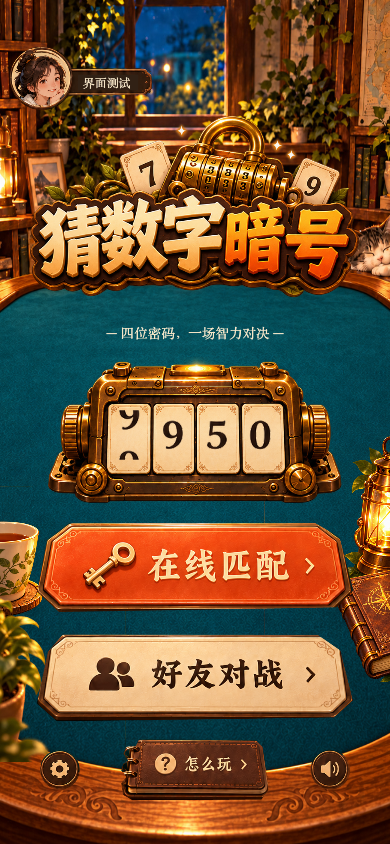
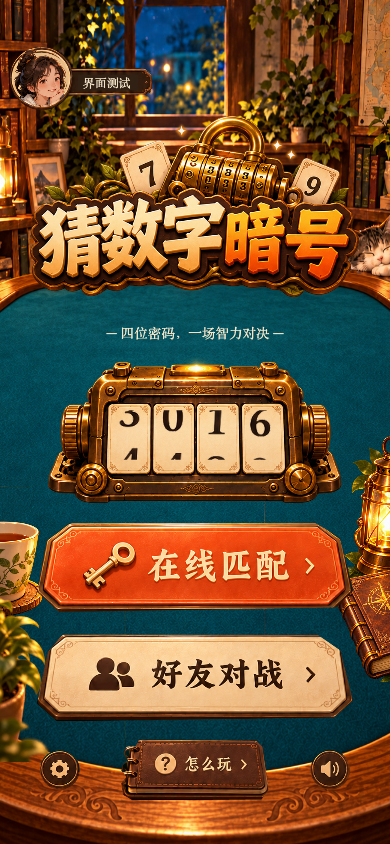
refine(ui): stagger lobby reel stops with landing bounce and cues

diff --git a/tests/lobby-shuffle.test.ts b/tests/lobby-shuffle.test.ts
@@ -5,14 +5,24 @@ test('starts immediately, stops all reels then holds for five seconds without re
  let n=0;const s=new LobbyShuffle(()=>((n++%10)+.1)/10);s.show(true);
  assert.equal(s.elapsed,0);s.advance(.1,true);assert.ok(s.pose(0).offset>0);
  s.show(true);assert.equal(s.elapsed,.1);
- for(let i=0;i<13;i++)s.advance(.1,true);
+ for(let i=0;i<18;i++)s.advance(.1,true);
  const digits=[0,1,2,3].map(i=>s.pose(i).digit);assert.ok([0,1,2,3].every(i=>!s.pose(i).active));
  for(let i=0;i<48;i++)s.advance(.1,true);
- assert.deepEqual([0,1,2,3].map(i=>s.pose(i).digit),digits);assert.ok(s.elapsed>=6.1);
- s.advance(.1,true);assert.equal(s.elapsed,0);assert.equal(s.pose(0).active,true);
+ assert.deepEqual([0,1,2,3].map(i=>s.pose(i).digit),digits);assert.ok(s.elapsed>=6.6);
+ s.advance(.1,true);s.advance(.1,true);assert.equal(s.elapsed,0);assert.equal(s.pose(0).active,true);
 });
 test('hidden view pauses; reentry starts immediately; disabled motion settles',()=>{
  const s=new LobbyShuffle(()=>.7);s.show(true);s.advance(.1,true);s.show(false);s.advance(.1,true);assert.equal(s.elapsed,.1);
  s.show(true);assert.equal(s.elapsed,0);s.advance(.1,false);assert.equal(s.pose(3).active,false);assert.equal(s.pose(3).digit,7);
  for(let i=0;i<100;i++)s.advance(.1,false);assert.equal(s.elapsed,s.rollDuration);
+});
+
+test('reels stop left to right, emit one click each and bounce only at landing',()=>{
+ const s=new LobbyShuffle(()=>.5);s.show(true);const stops:number[]=[];const times:number[]=[];
+ for(let i=0;i<110;i++){const landed=s.advance(.02,true);stops.push(...landed);for(const _ of landed)times.push(s.elapsed);s.show(true);}
+ assert.deepEqual(stops,[0,1,2,3]);
+ for(let i=1;i<4;i++)assert.ok(Math.abs(times[i]-times[i-1]-.24)<.025);
+ s.elapsed=.96;assert.ok(Math.abs(s.pose(0).bounce)>0);assert.equal(s.pose(1).bounce,0);
+ s.elapsed=s.rollDuration;for(let i=0;i<4;i++){assert.equal(s.pose(i).active,false);assert.ok(Math.abs(s.pose(i).bounce)<1e-8);}
+ assert.deepEqual(s.advance(.02,false),[]);s.show(false);assert.deepEqual(s.advance(.02,true),[]);
 });

diff --git a/assets/scripts/shared/lobby-shuffle.ts b/assets/scripts/shared/lobby-shuffle.ts
@@ -2,7 +2,9 @@
 export class LobbyShuffle {
   visible = false;
   elapsed = 0;
-  readonly rollDuration = 1.25;
+  readonly stopInterval = .24;
+  readonly settleDuration = .18;
+  readonly rollDuration = .9 + 3 * this.stopInterval + this.settleDuration;
   readonly holdDuration = 5;
   private reels: number[][] = [];
   constructor(private random: () => number = Math.random) { this.roll(); }
@@ -15,15 +17,21 @@ export class LobbyShuffle {
     this.visible = visible;
   }
   advance(dt: number, motion: boolean) {
-    if (!this.visible) return;
-    if (!motion) { this.elapsed = this.rollDuration; return; }
+    if (!this.visible) return [];
+    if (!motion) { this.elapsed = this.rollDuration; return []; }
+    const previous = this.elapsed;
     this.elapsed += Math.min(.1, Math.max(0, Number.isFinite(dt) ? dt : 0));
+    const stopped = [0,1,2,3].filter(i=>previous < this.stopAt(i) && this.elapsed >= this.stopAt(i));
     if (this.elapsed >= this.rollDuration + this.holdDuration) this.roll();
+    return stopped;
   }
+  private stopAt(index: number) { return .9 + index * this.stopInterval; }
   pose(index: number) {
-    const t=Math.max(0,Math.min(1,(this.elapsed-index*.08)/(1.01)));
+    const t=Math.max(0,Math.min(1,this.elapsed/this.stopAt(index)));
+    const settle=Math.max(0,Math.min(1,(this.elapsed-this.stopAt(index))/this.settleDuration));
+    const bounce=t<1?0:Math.sin(settle*Math.PI*2)*(1-settle);
     // Decelerate smoothly into the final digit; every crossing swaps one source numeral.
     const position=12*(1-(1-t)**2),step=Math.min(12,Math.floor(position));
-    return {digit:this.reels[index][step],next:this.reels[index][Math.min(12,step+1)],offset:position-step,active:t<1};
+    return {digit:this.reels[index][step],next:this.reels[index][Math.min(12,step+1)],offset:position-step,bounce,active:t<1};
   }
 }

diff --git a/assets/scripts/GameApp.ts b/assets/scripts/GameApp.ts
@@ -542,7 +542,9 @@ export class GameApp extends Component {
       if(!reel.current.isValid)return;
       const pose=this.lobbyShuffle.pose(i);
       reel.current.spriteFrame=this.lobbyDigitFrames[pose.digit];reel.next.spriteFrame=this.lobbyDigitFrames[pose.next];
-      reel.current.node.setPosition(0,pose.offset*reel.height);
+      reel.current.node.setPosition(0,pose.offset*reel.height-pose.bounce*reel.height*.08);
+      reel.current.node.setScale(1+pose.bounce*.035,1-pose.bounce*.07,1);
+      reel.next.node.active=pose.active;
       reel.next.node.setPosition(0,(pose.offset-1)*reel.height);
     });
   }
@@ -1268,7 +1270,9 @@ export class GameApp extends Component {
     if(this.roundNew?.isValid)this.roundNew.setPosition(0,pose.newY);
   }
   update(dt: number) {
-    this.lobbyShuffle.advance(dt,read('motion','1')==='1');this.applyLobbyShuffle();
+    const reelStops=this.lobbyShuffle.advance(dt,read('motion','1')==='1');
+    if(reelStops.length && !this.overlay && this.net.online)this.audio.play('tap');
+    this.applyLobbyShuffle();
     this.roundRoll.advance(dt,read('motion','1')==='1');this.applyRoundRoll();
     this.scenery?.update(dt);
     this.modals?.update(dt, read('motion', '1') === '1');

diff --git a/docs/verification/lobby-shuffle/README.md b/docs/verification/lobby-shuffle/README.md
@@ -1,8 +1,10 @@
 # 首页数字洗牌与静态沙漏
 
 - 数字：从现有口令键盘 key-0…key-9 提取原字形，生成 640×80 透明图集；未新增字体或用文字近似绘制。来源和图层说明见 `docs/design/lobby-shuffle/manifest.json`；深浅底图用于检查轮廓。原有资源 UUID 未变。
-- 首页：资源就绪且首页可见后立即播放首次滚动；四位错峰减速，最后一位在 1.25 秒落定；随后完整停留 5 秒再循环。进入新一轮随机数可重复。状态独立于 UI 节点，重绘不重置；离开页面停止计时，返回立即重新播放。关闭动效时静态显示。
+- 首页：资源就绪且首页可见后立即播放首次滚动；四位错峰减速，每位停止间隔 0.24 秒（0.90、1.14、1.38、1.62 秒），停止时轻微回弹 0.18 秒并触发一次 tap 音效；随后完整停留 5 秒再循环。进入新一轮随机数可重复。状态独立于 UI 节点，重绘不重置；离开页面停止计时，返回立即重新播放。关闭动效时静态显示。
 - 沙漏：固定使用已有图集的正立首帧，移除运行时帧切换。
-- 真实浏览器验证：首次动画、四秒以上稳定保持、下一循环、重绘保持、返回首页立即播放、沙漏静止、动效关闭、390×600 短屏。使用独立本地测试对局数据，无真实微信登录。
+- 真实浏览器验证：首次动画、每位一次落定音效触发、稳定保持至下一周期前、下一循环、重绘保持、返回首页立即播放、沙漏静止、动效关闭、390×600 短屏。使用独立本地测试对局数据，无真实微信登录。
 - `shuffle.gif` 来自连续运行截图；为便于预览，GIF 末尾停留缩短为 1.5 秒，游戏实际停留 5 秒。
-- `npm test` 52 项通过；服务端及客户端类型检查通过；Web 与微信构建通过。微信最终包体数据见构建日志，导出 `build/wechatgame/`。尚未执行微信真机测试或正式发布。
+- `npm test` 53 项通过；服务端及客户端类型检查通过；Web 与微信构建通过。微信总包 27442.1 KB，导出 `build/wechatgame/`。尚未执行微信真机测试或正式发布。
+
+音效沿用现有解锁/静音/后台策略：首次未触摸解锁时无声，视觉照常播放；覆盖弹窗时不触发首页落定音效。
